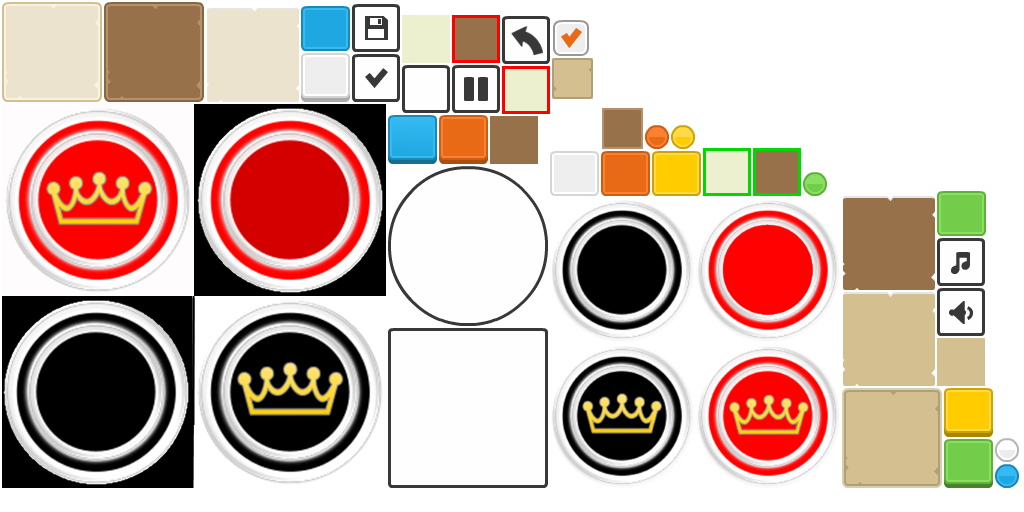
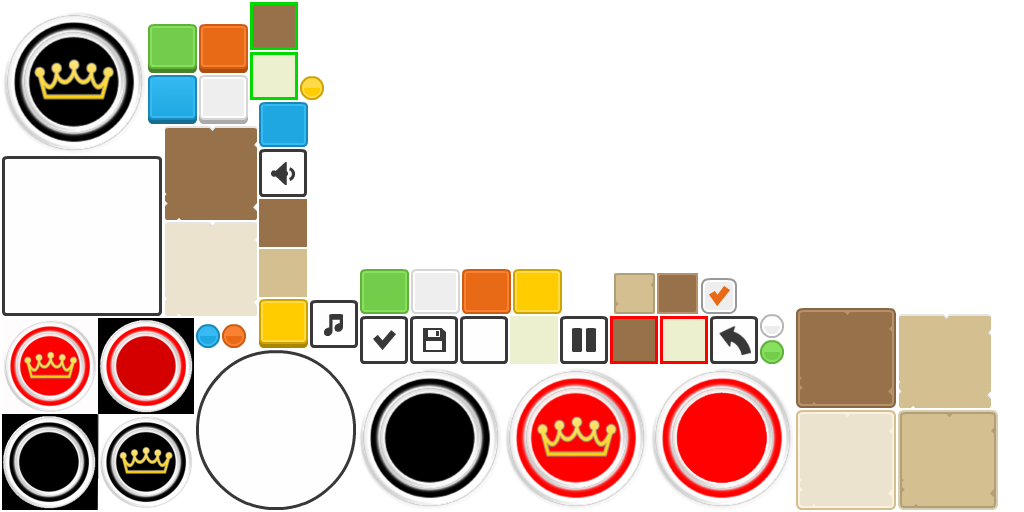
#add admob

diff --git a/core/src/com/pennywise/checkers/screens/GameScreen.java b/core/src/com/pennywise/checkers/screens/GameScreen.java
@@ -58,7 +58,7 @@ public class GameScreen extends AbstractScreen implements InputProcessor {
     SpriteBatch batch;
     private float cellsize = 0;
     private float gridHeight = 0;
-    private ImageButton resetGame,undoMove;
+    private ImageButton pauseGame,undoMove;
     private boolean isBusy = false;
     private int width, height;
     private Tile[] backgroundTiles;
@@ -71,9 +71,7 @@ public class GameScreen extends AbstractScreen implements InputProcessor {
 
     private boolean gameOver = false, incomplete = false;
     String strTime = "";
-    int count = 0;
 
-    private Image pauseButton;
     private Checker engine;
     private long startTime = 0;
     private boolean timer = false;
@@ -152,8 +150,6 @@ public class GameScreen extends AbstractScreen implements InputProcessor {
         stage = new Stage(new FitViewport(Constants.GAME_WIDTH, Constants.GAME_HEIGHT, camera));
         dialogStage = new Stage(new FitViewport(Constants.GAME_WIDTH, Constants.GAME_HEIGHT, camera));
         boardStage = new Stage(new FitViewport(Constants.GAME_WIDTH, Constants.GAME_HEIGHT, camera));
-
-
     }
 
 
@@ -183,9 +179,6 @@ public class GameScreen extends AbstractScreen implements InputProcessor {
 
     private final Vector2 stageCoords = new Vector2();
 
-    private int getRow(int index, int boardCol) {
-        return (int) Math.floor((((index - 2) - boardCol) / boardCol));
-    }
 
     @Override
     public void render(float delta) {
@@ -324,10 +317,10 @@ public class GameScreen extends AbstractScreen implements InputProcessor {
         layer.top();
         layer.right();
         //layer.debugTable();
-        resetGame = new ImageButton(Assets.img_btn_pause);
-        undoMove = new ImageButton(Assets.img_btn_pause);
+        pauseGame = new ImageButton(Assets.img_btn_pause);
+        undoMove = new ImageButton(Assets.img_undo);
         layer.add(undoMove).height(80).width(80).top().right().padRight(5).padTop(10);
-        layer.add(resetGame).height(80).width(80).top().right().padRight(10).padTop(10);
+        layer.add(pauseGame).height(80).width(80).top().right().padRight(10).padTop(10);
         return layer;
     }
 
@@ -761,7 +754,7 @@ public class GameScreen extends AbstractScreen implements InputProcessor {
 
                         if (pieces[index] == null)
                             continue;
-                        pieces[index].setSize(cellsize, cellsize);
+                        pieces[index].setSize((cellsize - 2), (cellsize - 2));
                         pieces[index].setPosition(position[index].x, position[index].y);
                         pieces[index].setName(text + "");
                         board.addActor(pieces[index]);
@@ -786,7 +779,7 @@ public class GameScreen extends AbstractScreen implements InputProcessor {
                         if (pieces[index] == null)
                             continue;
 
-                        pieces[index].setSize(cellsize, cellsize);
+                        pieces[index].setSize((cellsize - 2), (cellsize - 2));
                         pieces[index].setPosition(position[index].x, position[index].y);
                         pieces[index].setName(text + "");
                         board.addActor(pieces[index]);
@@ -865,7 +858,7 @@ public class GameScreen extends AbstractScreen implements InputProcessor {
 
     private void renderHud(SpriteBatch batch, float gameTime) {
 
-        float y = Constants.GAME_HEIGHT * 0.93f;
+        float y = Constants.GAME_HEIGHT * 0.95f;
 
         float minutes = (float) Math.floor(gameTime / 60.0f);
         float seconds = (float) Math.floor(gameTime - minutes * 60.0f);

diff --git a/core/src/com/pennywise/Assets.java b/core/src/com/pennywise/Assets.java
@@ -26,17 +26,13 @@ public class Assets {
     public static BitmapFont font;
 
     //
-    public static SpriteDrawable img_bg_1;
-    public static SpriteDrawable img_obj_btn_play;
-    public static SpriteDrawable img_obj_btn_scores;
-    public static SpriteDrawable img_obj_btn_settings;
-    public static SpriteDrawable img_obj_circle;
     public static SpriteDrawable img_cell_dark;
     public static SpriteDrawable img_cell_light;
     public static SpriteDrawable img_pawn_white;
     public static SpriteDrawable img_king_white;
     public static SpriteDrawable img_pawn_black;
     public static SpriteDrawable img_king_black;
+    public static SpriteDrawable img_undo;
     public static NinePatch img_background;
     public static NinePatch img_board_bg;
     public static SpriteDrawable img_selected_cell_dark;
@@ -95,6 +91,7 @@ public class Assets {
         img_king_black = getDrawable("blackking");
         img_king_white = getDrawable("whiteking");
         img_dark_outline = getDrawable("line_dark");
+        img_undo = getDrawable("undo");
 
     }
 
